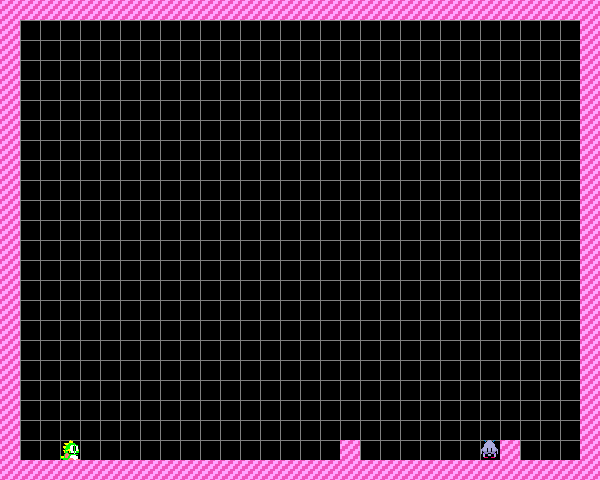
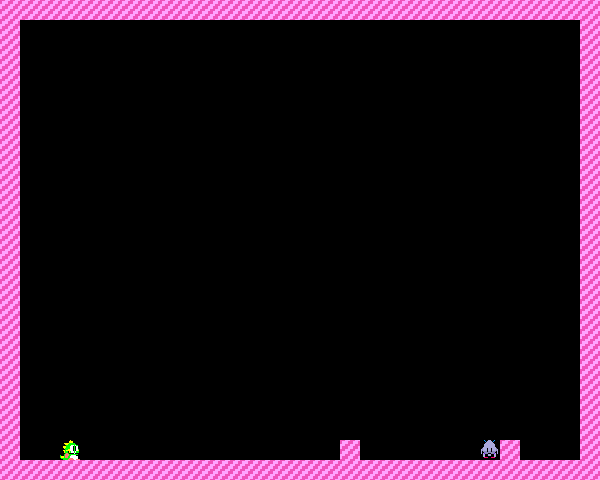
minor changes to transition

diff --git a/JBubbleBobble/src/editor/view/LevelsPopUpMenu.java b/JBubbleBobble/src/editor/view/LevelsPopUpMenu.java
@@ -131,26 +131,33 @@ public class LevelsPopUpMenu extends JPopupMenu {
     }
     
     private void saveLevelImage(int levelNumber, EditorFrame editorFrame) {
-    	// Salva l'immagine del livello
         try {
             BufferedImage image = new BufferedImage(editorFrame.getEditorPanel().getWidth(),
                                                     editorFrame.getEditorPanel().getHeight(),
                                                     BufferedImage.TYPE_INT_RGB);
             Graphics g = image.getGraphics();
-            editorFrame.getEditorPanel().paint(g);
+
+            // Rimuovi il bordo grigio durante il rendering
+            for (Sprite[] row : editorFrame.getEditorPanel().getSprites()) {
+                for (Sprite s : row) {
+                    s.renderWithoutBorder(g); // Usa il metodo senza bordo
+                }
+            }
+
             g.dispose();
-            
+
             // Specifica il percorso e il nome del file dell'immagine
             File outputFile = new File("resources/levelsimg/Livello" + levelNumber + ".png");
             ImageIO.write(image, "png", outputFile);
-            
+
             System.out.println("Level image saved as: " + outputFile.getAbsolutePath());
         } catch (Exception ex) {
             ex.printStackTrace();
             JOptionPane.showMessageDialog(editorFrame, "Error saving level image.", "Error", JOptionPane.ERROR_MESSAGE);
         }
-        
+
         // Aggiorna i popup menu
         editorFrame.getPopUps().forEach(p -> p.rebuildMenu());
     }
+
 }

diff --git a/JBubbleBobble/src/editor/view/Sprite.java b/JBubbleBobble/src/editor/view/Sprite.java
@@ -56,13 +56,22 @@ public class Sprite extends JButton {
 	    // Disegna l'immagine vuota come sfondo (puoi mantenere questa parte se necessario)
 	    ((Graphics2D)g).drawImage(EMPTY_SPRITE, x * EditorPanel.SQUARE_SIZE, y * EditorPanel.SQUARE_SIZE, (int) sideLength, (int) sideLength, null);
 	    
-	    // Disegna il bordo giallo
+	    // Disegna il bordo grigio
 	    Graphics2D g2 = (Graphics2D) g;
 	    float thickness = 1; // Spessore del bordo
 	    g2.setStroke(new BasicStroke(thickness));
 	    g2.setColor(Color.GRAY);
 	    g2.drawRect(x * EditorPanel.SQUARE_SIZE, y * EditorPanel.SQUARE_SIZE, (int) sideLength, (int) sideLength);
 	}
+	
+	public void renderWithoutBorder(Graphics g) {
+	    if (img != null) {
+	        g.drawImage(img, x * EditorPanel.SQUARE_SIZE, y * EditorPanel.SQUARE_SIZE, (int) sideLength, (int) sideLength, null);
+	    } else {
+	        g.clearRect(x * EditorPanel.SQUARE_SIZE, y * EditorPanel.SQUARE_SIZE, (int) sideLength, (int) sideLength);
+	    }
+	}
+
 
 
 }

diff --git a/JBubbleBobble/src/game/view/LevelPanel.java b/JBubbleBobble/src/game/view/LevelPanel.java
@@ -1,5 +1,6 @@
 package game.view;
 
+import java.awt.Color;
 import java.awt.Dimension;
 import java.awt.Graphics;
 import java.awt.Graphics2D;
@@ -35,6 +36,7 @@ public class LevelPanel extends JPanel {
 	public LevelPanel(GameFrame gameFrame) {
 		setPanelSize();
 		this.gameFrame = gameFrame;
+		setBackground(Color.BLACK);
 	}
 
 	private void setPanelSize() {

diff --git a/JBubbleBobble/src/game/view/GameFrame.java b/JBubbleBobble/src/game/view/GameFrame.java
@@ -47,6 +47,7 @@ public class GameFrame extends JFrame {
 	    layoutPanel.add(transitionPanel, "TRANSITION");
 
 		JPanel gamePanel = new JPanel(new BorderLayout());
+		//gamePanel.setBackground(Color.BLACK);
 		
 		JPanel scorePanel = new JPanel(new GridBagLayout());
 		scorePanel.setBackground(Color.BLACK);
